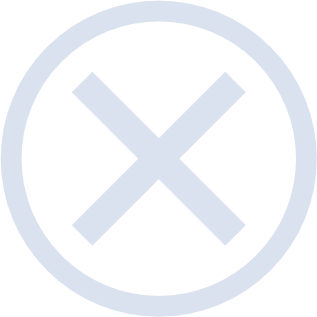
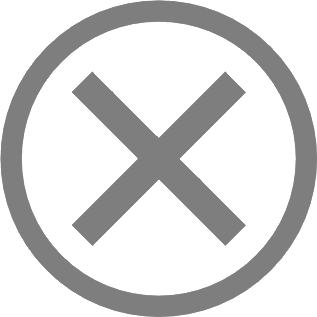
Modified UI

diff --git a/layout/slide_button.py b/layout/slide_button.py
@@ -11,7 +11,7 @@ class SwitchButton(QtWidgets.QWidget):
         self.bgColorOff = QColor("#DBE2EF")
         self.bgColorOn = QColor("#DBE2EF")
 
-        self.sliderColorOff = QColor("#F9F7F7")
+        self.sliderColorOff = QColor("#C9CCD5")
         self.sliderColorOn = QColor("#3F72AF")
 
         self.textColorOff = QColor("#112D4E")

diff --git a/main.py b/main.py
@@ -747,7 +747,7 @@ class DeleteButton(QPushButton):
     def __init__(self):
         super().__init__()
         # self.setText("-")
-        self.setFixedSize(30, 30)
+        self.setFixedSize(18, 18)
         self.setStyleSheet('''
             QPushButton {
                 border: 0px;
